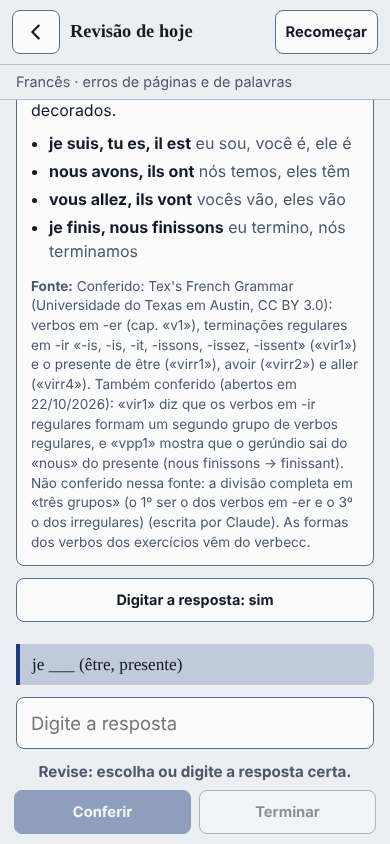
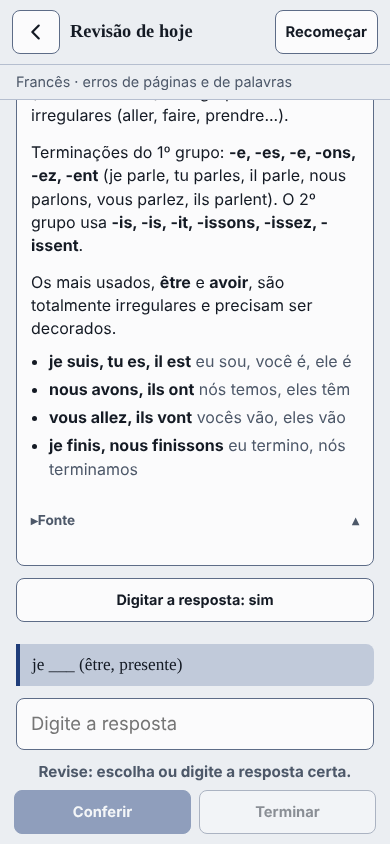
v1.54.0 WIP: trilha gradual (gramática só após palavras)
Claude-Session: https://claude.ai/code/session_01WVzrTohvTZtQXGDw3uW29L

Changed region(s): [[0.0615, 0.1232, 0.9231, 0.6469], [0.0615, 0.8009, 0.9538, 0.8318]]

diff --git a/src/p13.js b/src/p13.js
@@ -6,6 +6,11 @@ function wordsOf(p){
   const arr=(VOCAB[S.lang]&&VOCAB[S.lang][p.cat])||[],K=p.K||2,n=arr.length;
   return arr.slice(Math.round((p.part-1)*n/K),Math.round(p.part*n/K));
 }
+/* Gramática e frases só entram em «Hoje»/«Próximo» quando a pessoa já acertou palavras suficientes (decisão dela, 23/10/2026:
+   aprender aos poucos, como criança; a gramática não pode presumir que ela conhece as palavras). Os números são julgamento de Claude, não vêm de fonte.
+   A n-ésima página de gramática pede GRAM_BASE+GRAM_STEP*n palavras já acertadas pelo menos uma vez no idioma. As páginas continuam abertas em Lições. */
+const GRAM_BASE=30,GRAM_STEP=9,CONV_BASE=20,CONV_STEP=6;
+function knownWords(){const sk=S.sk[S.lang]||{};let n=0;for(const k in sk)if(sk[k][0]>=1)n++;return n;}
 const VOCLESSON=["conheca","contexto","reco","completar","embaralhar","escreva"];
 let _path=null;
 function lessonPath(){
@@ -15,7 +20,7 @@ function lessonPath(){
   VOLUME2.pages.forEach(p=>out.push({vol:2,page:p,audio:true}));
   const gids=GROUPS.map(g=>g[0]).filter(g=>CATS.some(c=>c[2]===g));
   const chunk=(arr,i,n)=>arr.slice(Math.round(i*arr.length/n),Math.round((i+1)*arr.length/n));
-  const gram=VOLUME4.pages,conv=[];
+  const gram=VOLUME4.pages,conv=[];let gn=0,cn=0;
   VOLUME3.pages.filter(p=>p.type==="frases"&&!p.book).forEach(p=>conv.push(p));
   const pairs=VOLUME3.pages.filter(p=>p.type==="sentence").map(s=>[s,M[3].get("resposta-"+s.n)]);
   pairs.forEach(pr=>pr.forEach(p=>{if(p)conv.push(p);}));
@@ -26,8 +31,8 @@ function lessonPath(){
       add(1,"odd-"+c[0]);add(1,"search-"+c[0]+"-easy");add(1,"cross-"+c[0]+"-easy");
     });
     add(1,"connect-"+g+"-easy-1");
-    chunk(gram,gi,gids.length).forEach(p=>out.push({vol:4,page:p}));
-    chunk(conv,gi,gids.length).forEach(p=>out.push({vol:3,page:p}));
+    chunk(gram,gi,gids.length).forEach(p=>out.push({vol:4,page:p,need:GRAM_BASE+GRAM_STEP*(gn++)}));
+    chunk(conv,gi,gids.length).forEach(p=>out.push({vol:3,page:p,need:CONV_BASE+CONV_STEP*(cn++)}));
   });
   /* temas de livros: novas lições no fim da trilha (só no idioma do livro) */
   BOOKS.forEach(b=>b.chunks.forEach(c=>{
@@ -75,7 +80,8 @@ function pageMastered(p){
   return ok/ws.length>=.8;
 }
 const canHear=()=>"speechSynthesis" in window;
-const eligible=r=>pageInLang(r.page)&&!S.done[S.lang+":"+r.page.id]&&!(r.audio&&!canHear())&&!(r.voc&&pageMastered(r.page));
+const eligible=r=>pageInLang(r.page)&&!S.done[S.lang+":"+r.page.id]&&!(r.audio&&!canHear())&&!(r.voc&&pageMastered(r.page))&&!(r.need&&knownWords()<r.need);
+const gatedLeft=()=>{const k=knownWords();return lessonPath().filter(r=>r.need&&pageInLang(r.page)&&!S.done[S.lang+":"+r.page.id]&&k<r.need).length;};
 function nextNewPage(){
   const up=lessonPath().find(eligible)||null;
   if(S.sq>=2){const g=pickGame(up);if(g)return g;}
@@ -103,7 +109,7 @@ const WEAK_MIN=8;
 function todayPlan(){
   const d=dueCount();if(d)return{kind:"review",n:d};
   const w=weakWords().length;if(w>=WEAK_MIN)return{kind:"weak",n:w};
-  const r=nextNewPage();return r?{kind:"lesson",ref:r}:{kind:"done"};
+  const r=nextNewPage();return r?{kind:"lesson",ref:r}:{kind:"done",gated:gatedLeft()};
 }
 function lessonName(r){
   const V=VOLUMES.find(v=>v.id===r.vol),t=V.types.find(x=>x[0]===r.page.type);
@@ -111,6 +117,6 @@ function lessonName(r){
 }
 function planText(){
   const p=todayPlan();
-  return p.kind==="review"?p.n+" para revisar":p.kind==="weak"?"reforçar "+p.n+" palavras que errou":p.kind==="lesson"?"próxima: "+lessonName(p.ref):"tudo em dia";
+  return p.kind==="review"?p.n+" para revisar":p.kind==="weak"?"reforçar "+p.n+" palavras que errou":p.kind==="lesson"?"próxima: "+lessonName(p.ref):p.gated?"aprenda mais palavras para liberar a gramática":"tudo em dia";
 }
 function startLesson(r){S.vol=r.vol;S.fGame="all";S.fTheme="all";save();startPage(r.page.id);}

diff --git a/src/novidades.js b/src/novidades.js
@@ -1,6 +1,6 @@
 /* Notas de atualização: mais nova primeiro. Acrescente uma entrada a cada versão publicada (mesmo número de VERSION). */
 const NOVIDADES=[
-{v:"1.54.0",d:"2026-10-23",t:["Novo: link de convite para amigos. Em Amigos, «Convidar por link» abre o WhatsApp (ou o menu de compartilhar) com um link; quem toca nele já vê o seu código preenchido","Novo: 17 ícones novos de perfil ligados aos livros (pena, tinteiro, castelo, coruja, rosa, lanterna etc.)","Novo: «Livro favorito» no Perfil (fica só no seu aparelho; não é enviado a amigos)","Mudou: Conta e backup na nuvem (o e-mail) agora fica no Perfil, não mais em Ajustes","Mudou: as fontes ficaram recolhidas. Em cada regra, no dicionário e nos textos dos livros há um «Fonte» que você abre só se quiser ver","Removido: o Cartão do dia (o cartão da tela inicial e a opção nos lembretes e no ícone do app). Os lembretes continuam","Ainda não existe: aviso de notificação para convites e desafios (exige mudança no servidor)"]},
+{v:"1.54.0",d:"2026-10-23",t:["Novo: link de convite para amigos. Em Amigos, «Convidar por link» abre o WhatsApp (ou o menu de compartilhar) com um link; quem toca nele já vê o seu código preenchido","Novo: 17 ícones novos de perfil ligados aos livros (pena, tinteiro, castelo, coruja, rosa, lanterna etc.)","Novo: «Livro favorito» no Perfil (fica só no seu aparelho; não é enviado a amigos)","Mudou: Conta e backup na nuvem (o e-mail) agora fica no Perfil, não mais em Ajustes","Mudou: «Hoje» e «Próximo» agora só levam à gramática e às frases quando você já acertou palavras suficientes (a primeira página pede 30 palavras, e cada página seguinte, mais 9). Antes disso, seguem as palavras e os jogos. Tudo continua aberto em Lições","Mudou: as fontes ficaram recolhidas. Em cada regra, no dicionário e nos textos dos livros há um «Fonte» que você abre só se quiser ver","Removido: o Cartão do dia (o cartão da tela inicial e a opção nos lembretes e no ícone do app). Os lembretes continuam","Ainda não existe: aviso de notificação para convites e desafios (exige mudança no servidor)"]},
 {v:"1.53.0",d:"2026-10-22",t:["Novo ícone do app: o livro aberto com «tt». A escolha de ícones saiu de Ajustes","Entrar na conta: o passo do código não se perde mais quando você vai ao e-mail e volta (Samsung Internet e outros navegadores)","Ao sair do app e voltar, ele reabre na última tela (Ajustes, Livros, Estatísticas…), e não mais na tela inicial","Dicionário: nova seção «Palavras parecidas: não confunda» (cuisine e cousine, desert e dessert…), nos 3 idiomas. Pares escritos por Claude, sem fonte conferida","O app muda para o endereço litteraria.com.br. Quem tem conta entra de novo e recupera tudo; quem não tem, baixe o backup antes em Ajustes → Dados"]},
 {v:"1.52.1",d:"2026-10-22",t:["O aviso «O app foi atualizado» não volta mais a cada vez que você abre o app: ele aparece uma vez por versão","Aviso de que o app muda de endereço (litteraria.com.br) ainda hoje, com botão para baixar o backup. Quem tem conta na nuvem recupera tudo entrando de novo","Política de Privacidade revisada: agora diz o que vai junto nas sugestões, como o e-mail é usado e onde o app fica hospedado"]},
 {v:"1.52.0",d:"2026-10-22",t:["O app agora se chama Litteraria (antes Mots & Parole). Seu progresso, sua conta e seus amigos continuam como estavam","No iPhone, o ícone que já está na tela inicial pode continuar com o nome antigo: renomeie o atalho, ou instale de novo depois de baixar um backup em Ajustes → Dados"]},

diff --git a/src/p10.js b/src/p10.js
@@ -131,6 +131,7 @@ function startToday(){
   if(pl.kind==="review")return startReview();
   if(pl.kind==="weak")return startDrill("r");
   if(pl.kind==="lesson")return startLesson(pl.ref);
+  if(pl.gated)return openSheet("Mais palavras primeiro","<p class=\"help\">Por enquanto você fez todas as lições de palavras e jogos disponíveis em "+esc(LNAME[S.lang])+". Ainda restam "+pl.gated+" páginas de gramática e frases, que abrem aos poucos conforme você acerta mais palavras. Treine e revise as palavras (menu Treino) e elas vão aparecendo. Você pode abri-las quando quiser em Lições.</p>",false);
   openSheet("Tudo em dia","<p class=\"help\">Você concluiu todas as lições da trilha em "+esc(LNAME[S.lang])+" e não há nada para revisar. Experimente o Treino, que gera itens novos a cada rodada.</p>",false);
 }
 $("#go-today").addEventListener("click",startToday);

diff --git a/CLAUDE.md b/CLAUDE.md
@@ -233,3 +233,4 @@ App de palavras (francês, italiano, inglês) em um único `index.html`, publica
 - **Cartão do dia removido** (cartão da tela inicial, opção nos lembretes, atalho do ícone); `rm.st` só aceita anim/calma. `cardFor`/`pushState` ficam por compatibilidade do `sw.js`.
 - Fontes recolhidas: `<details class="srcbox">` em regras (p9.js), dicionário (p2.html) e textos dos livros (livros2.js).
 - Aviso de mudança de endereço diz «Em breve». Notificação de convite/desafio: NÃO feita (exige SQL + Edge Function). Cache `mots-parole-v97`.
+- **Trilha mais gradual (23/10/2026, pedido dela: aprender como criança, aos poucos, a gramática não pode presumir vocabulário):** em `p13.js`, páginas de gramática (`need = GRAM_BASE 30 + 9·n`) e frases/respostas do Volume 3 (`CONV_BASE 20 + 6·n`) só são `eligible` para «Hoje»/«Próximo» quando `knownWords()` (palavras com ≥1 acerto em `S.sk`) alcança o `need`. Limiares são julgamento de Claude, sem fonte. Continuam abertas em Lições. Sem mais nada elegível, «Hoje» explica que faltam palavras (`gated`). Ideias dela ainda abertas: mais imagens/repetição e livros curtos mais cedo.
